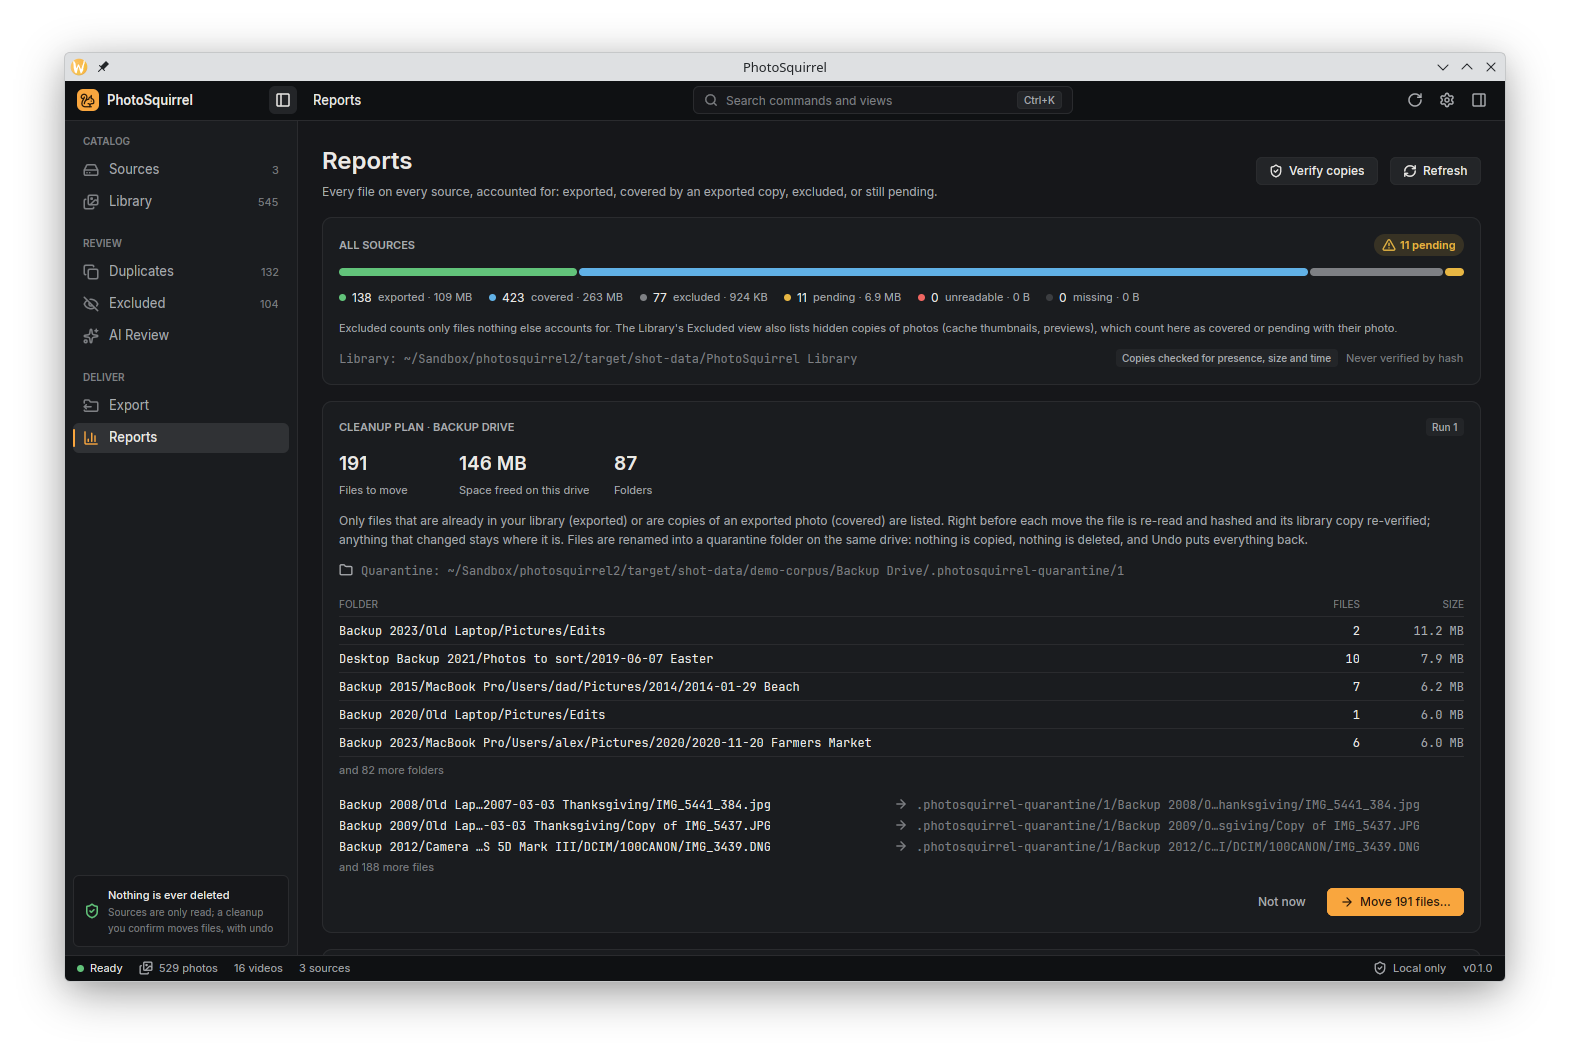
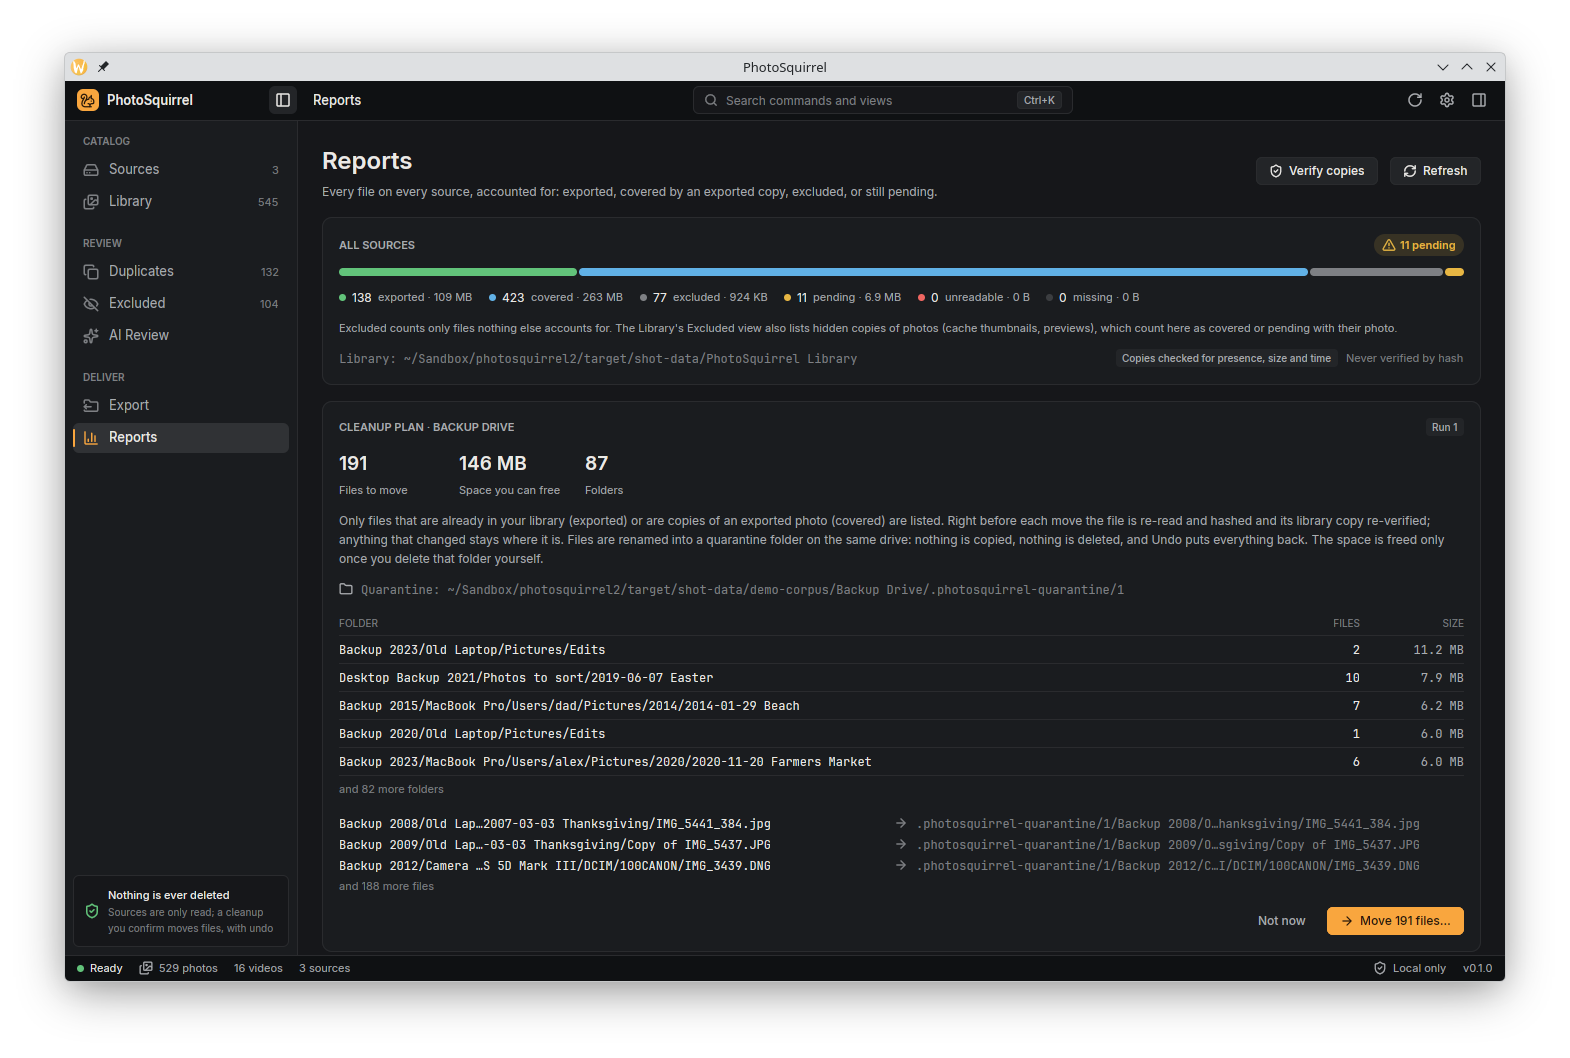
Cleanup wording: space you can free, not space freed
A cleanup renames files into a quarantine folder on the same drive, so no
space is freed until the user deletes that folder. The plan's stat now reads
"Space you can free" and its explanation says when the space is freed; the
CLI help and the README say the same. Screenshot recaptured. Also fixes the
doc link to `file_is_quarantined_sql!` in ps-catalog's grouping inputs.

Claude-Session: https://claude.ai/code/session_01XRBTstf5nEQw24ksDZxYk2

diff --git a/crates/ui-workspace/src/views/cleanup.rs b/crates/ui-workspace/src/views/cleanup.rs
@@ -1,5 +1,5 @@
 //! The Cleanup panel of the Reports view (change `quarantine-cleanup`, task 5.3; ADR-0024, ADR-0061): review
-//! a plan (what moves where, per folder, how much space it frees), an explicit confirmation, live progress,
+//! a plan (what moves where, per folder, how much space you can free), an explicit confirmation, live progress,
 //! and the history of runs with Undo.
 //!
 //! Nothing moves without the confirmation: "Move N files…" only opens it, and only its own button starts the
@@ -481,7 +481,7 @@ impl CleanupView {
                     ))
                     .child(kit::stat(
                         "cleanup-bytes",
-                        "Space freed on this drive",
+                        "Space you can free",
                         kit::format_bytes(r.planned_bytes),
                         cx,
                     ))
@@ -503,7 +503,7 @@ impl CleanupView {
                          photo (covered) are listed. Right before each move the file is re-read and hashed and its \
                          library copy re-verified; anything that changed stays where it is. Files are renamed into \
                          a quarantine folder on the same drive: nothing is copied, nothing is deleted, and Undo \
-                         puts everything back.",
+                         puts everything back. The space is freed only once you delete that folder yourself.",
                     ),
             )
             .child(

diff --git a/crates/ps-catalog/src/groups.rs b/crates/ps-catalog/src/groups.rs
@@ -426,7 +426,8 @@ impl Stamp {
 /// cleanup run moved into its quarantine folder (migration 14, ADR-0034: a quarantined file is accounted for,
 /// so it keeps its place in its group - a moved keeper stays the keeper and its copies stay covered - instead
 /// of dropping out like a file that is gone).
-/// Quarantined files are matched by source and path ([`crate::cleanup::FILE_IS_QUARANTINED`], ADR-0063).
+/// Quarantined files are matched by source and path
+/// ([`file_is_quarantined_sql!`](crate::cleanup::file_is_quarantined_sql), ADR-0063).
 const INPUT_WHERE: &str = concat!(
     "stage IN (2, 3) AND content_id IS NOT NULL AND (missing_since IS NULL OR ",
     crate::cleanup::file_is_quarantined_sql!(),

diff --git a/crates/photosquirrel-cli/src/main.rs b/crates/photosquirrel-cli/src/main.rs
@@ -58,8 +58,9 @@ enum Command {
         #[command(subcommand)]
         command: ExportCommand,
     },
-    /// Reclaim space: move already-exported or covered originals into a quarantine folder on the same drive,
-    /// re-verified first, journaled and undoable. Nothing is ever deleted.
+    /// Make space you can free: move already-exported or covered originals into a quarantine folder on the same
+    /// drive, re-verified first, journaled and undoable. Nothing is ever deleted; the space is freed only when
+    /// you delete the quarantine folder yourself (check `report --verify` first).
     Cleanup {
         #[command(subcommand)]
         command: CleanupCommand,

diff --git a/README.md b/README.md
@@ -130,8 +130,9 @@ photosquirrel-cli doctor                              # version, data folder, op
 
 In Reports, **Free up space** appears on every drive that has files whose best copy is already in your library
 (exported, or a duplicate of an exported photo); the drive does not have to be fully accounted for. It plans a
-cleanup of exactly those files, listed with where each would go, per folder, with the space it frees. Pending,
-excluded, unreadable and missing files are never included. Nothing moves until you confirm the plan.
+cleanup of exactly those files, listed with where each would go, per folder, with the space you can free. Pending,
+excluded, unreadable and missing files are never included. Nothing moves until you confirm the plan. A move stays
+on the same drive, so the space is only freed once you delete the quarantine folder yourself (see below).
 
 - Right before each move, the file is read and hashed again and its library copy re-verified. Anything that
   changed, or whose library copy is gone, stays where it is and is listed with the reason.
